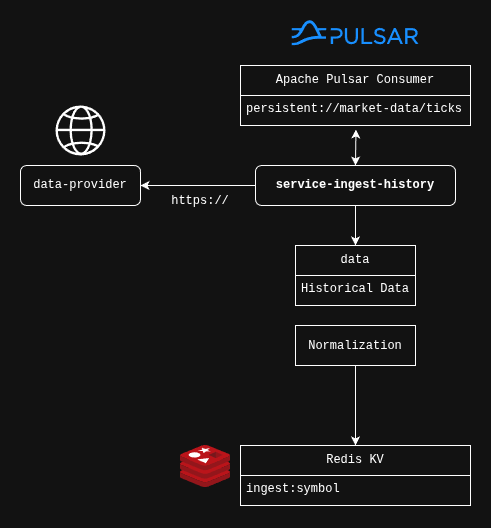
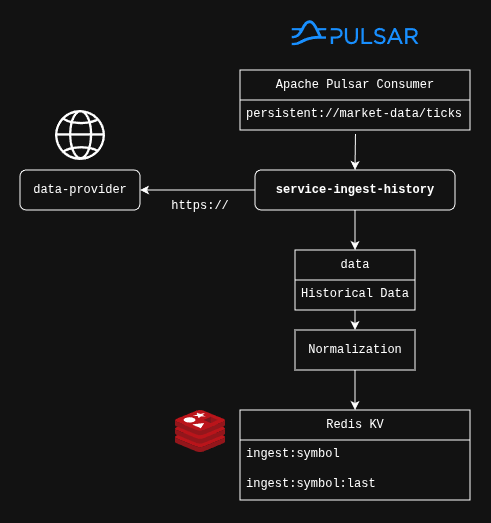
update : service-docs

diff --git a/backend/service-docs/docs/service-ingest-history.md b/backend/service-docs/docs/service-ingest-history.md
@@ -4,7 +4,7 @@ outline: deep
 
 # service-ingest-history
 
-A microservice that queries the market data provider, normalizes the data, and saves the 1m history of each symbol.
+A microservice that queries the market data provider, normalizes the data, and saves the OHLCV history by symbol timeframe 1 minute
 
 
 ![Ingest](./assets/service-ingest-history.png)
